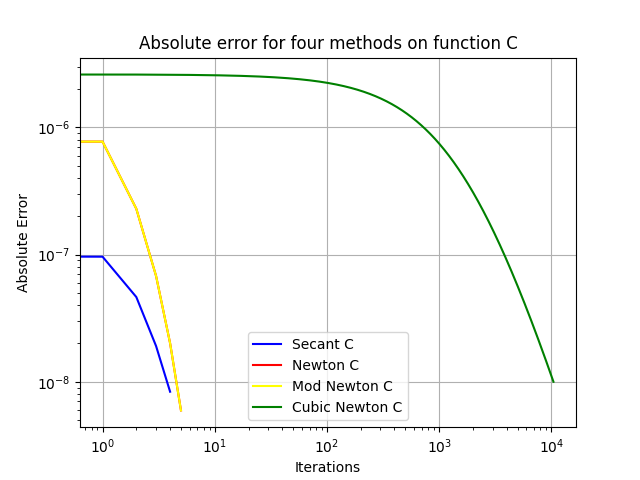
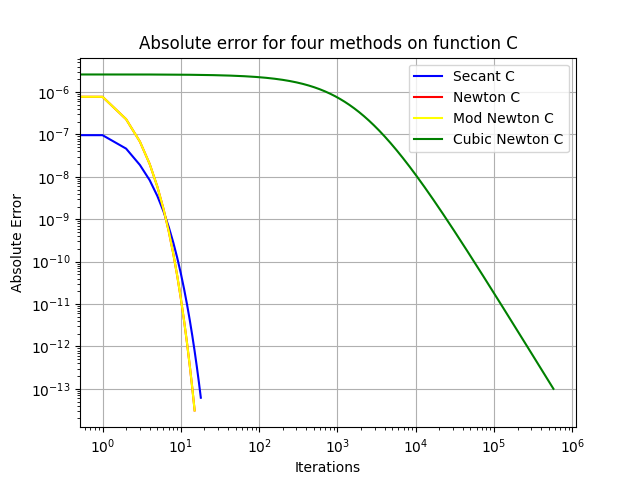
figures + finished q2, starting q3

diff --git a/lab_2/lab_2.py b/lab_2/lab_2.py
@@ -31,21 +31,18 @@ def abs_error(sol, funct_type):
         return "ERROR: incorrect function type"
 
 # Define error threshold
-acceptable_error = 1e-8
+acceptable_error = 1e-13
 best_index = 0
 # Function to find order of convergence from data:
 def estimate_order(error_arr):
-    thresh = 1e-16
     length = len(error_arr)
-    vals = []
-    best_alpha = 0
-    for i in range(length-2):
-        err0, err1, err2 = error_arr[i], error_arr[i+1], error_arr[i+2]
-        if min(err0, err1, err2) <= 1e-12 or max(err0, err1, err2) >= 1e-2:
-            continue
-        alpha = math.log(err2/err1) / math.log(err1/err0)
-        vals.append(alpha)
-    return np.array(vals)
+    if (length >= 3) :
+        err2 = error_arr[length - 1]
+        err1 = error_arr[length - 2]
+        err0 = error_arr[length - 3]
+    alpha = math.log(err2/err1) / math.log(err1/err0)
+    return alpha
+        
 
 
 # Define initial value (plotted on desmos)

diff --git a/lab_2/lab_2_q3.py b/lab_2/lab_2_q3.py
@@ -1,0 +1,10 @@
+# Lab 2
+# Numerical Methods
+# Evelyn Wilson
+# Due Date: October 1, 2025
+
+# Imports
+import math
+import numpy as np
+from scipy import special
+import matplotlib.pyplot as plt
